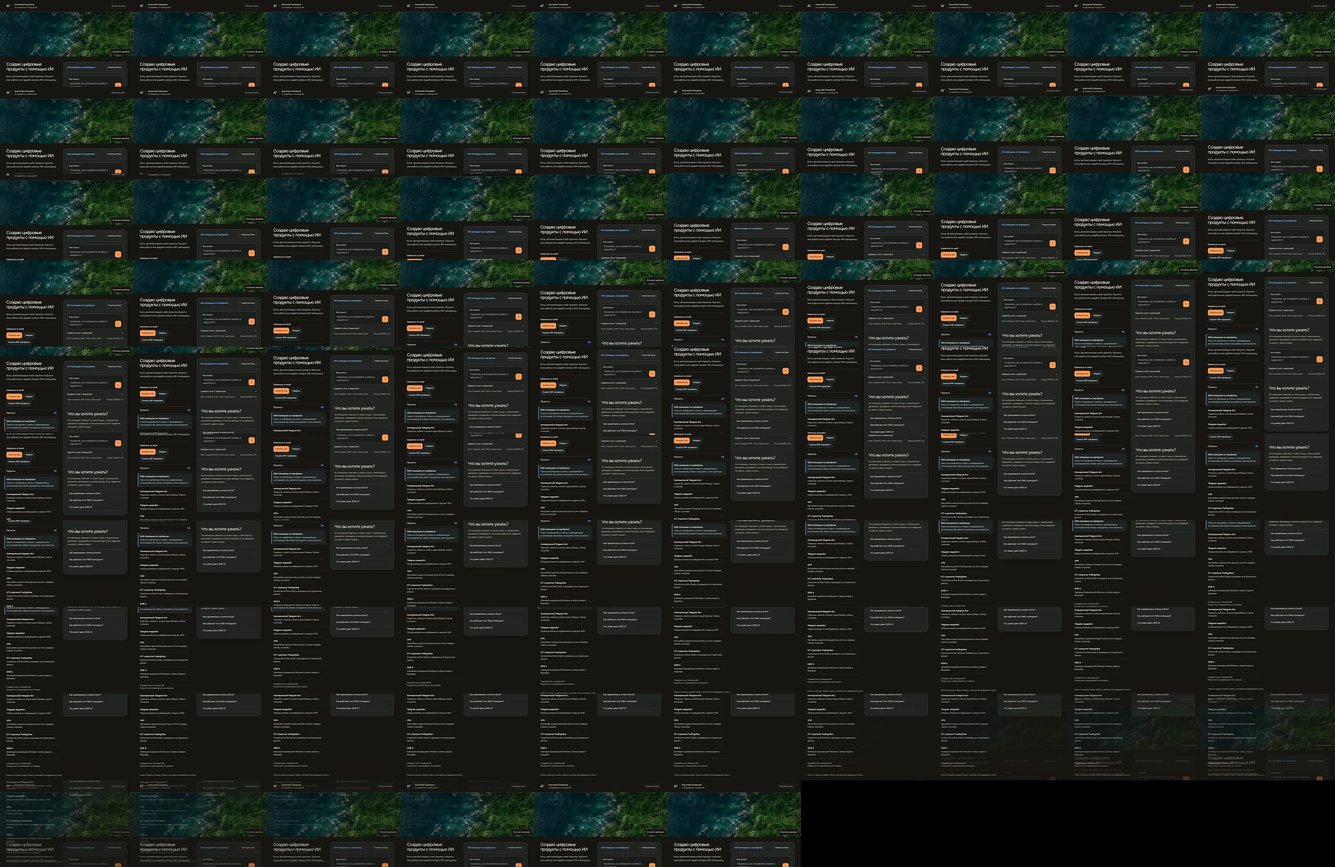
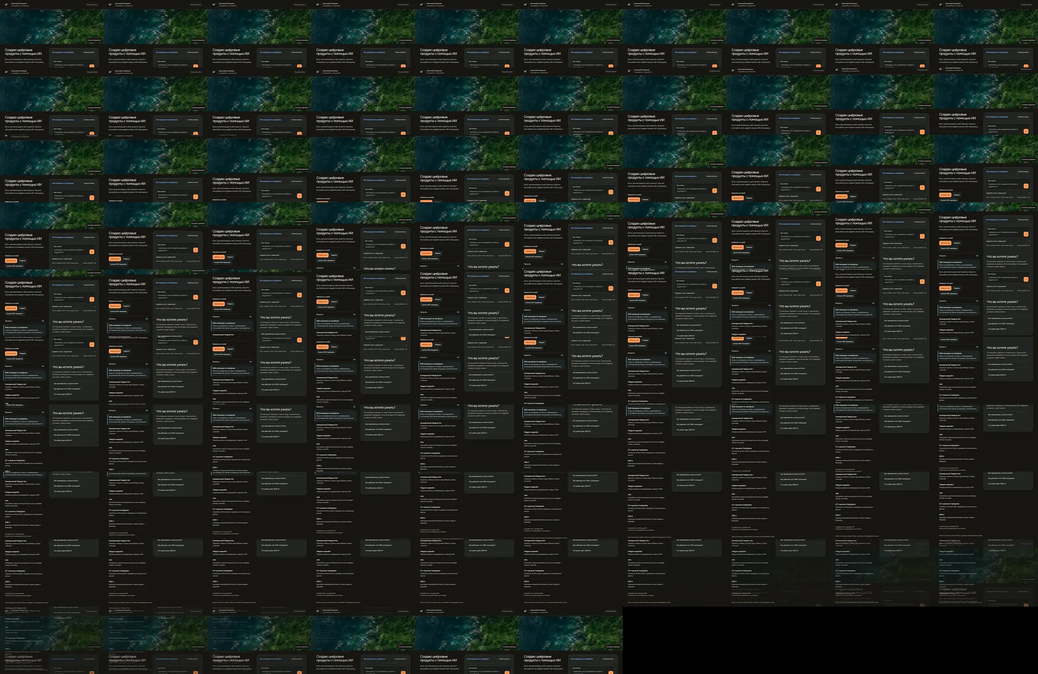
Reduce decoded memory for mobile portfolio previews

diff --git a/resume/index.html b/resume/index.html
@@ -298,7 +298,7 @@ html.motion-ready.scroll-story-active .scroll-flow.reveal .flow-arrow,html.motio
  <div class="project-screen">
   <img class="project-poster" src="assets/rag-motion.jpg" alt="" loading="lazy" decoding="async">
   <video class="project-motion" data-src="assets/rag-smooth.mp4" muted playsinline preload="none" tabindex="-1" disablepictureinpicture loop></video>
-  <div class="project-frames" data-src="assets/rag-smooth.webp"><i></i><i></i></div>
+  <div class="project-frames" data-src="assets/rag-smooth.webp?v=280"><i></i><i></i></div>
  </div>
 </div><span class="rag-preview-label">Посмотреть ИИ-помощника <span aria-hidden="true">↗</span><small>Открыть демо</small></span></a><p class="rank">Демо · 6 проектов</p><details class="project-benefit">
  <summary>Как вам это поможет?<span class="project-benefit-icon" aria-hidden="true"></span></summary>
@@ -314,7 +314,7 @@ html.motion-ready.scroll-story-active .scroll-flow.reveal .flow-arrow,html.motio
   <div class="project-screen">
    <img class="project-poster" src="assets/tradingview-poster.jpg" alt="" loading="lazy" decoding="async">
    <video class="project-motion" data-src="assets/tradingview-loop.mp4" muted playsinline preload="none" tabindex="-1" disablepictureinpicture loop></video>
-   <div class="project-frames" data-src="assets/tradingview-frames.webp"><i></i><i></i></div>
+   <div class="project-frames" data-src="assets/tradingview-frames.webp?v=280"><i></i><i></i></div>
   </div>
  </div>
 </a><p class="rank">Локальный проект · в процессе доработки</p><details class="project-benefit">
@@ -330,13 +330,13 @@ html.motion-ready.scroll-story-active .scroll-flow.reveal .flow-arrow,html.motio
  <div class="project-screen">
   <img class="project-poster" src="assets/side-a-motion.jpg" alt="" loading="lazy" decoding="async">
   <video class="project-motion" data-src="assets/side-a-smooth.mp4" muted playsinline preload="none" tabindex="-1" disablepictureinpicture loop></video>
-  <div class="project-frames" data-src="assets/side-a-smooth.webp"><i></i><i></i></div>
+  <div class="project-frames" data-src="assets/side-a-smooth.webp?v=280"><i></i><i></i></div>
  </div>
 </div><span>SIDE A ↗</span></a><a href="https://galihey.github.io/side-a-cover-motion/side-b/?v=6" target="_blank" rel="noopener noreferrer"><div class="project-stage" aria-hidden="true">
  <div class="project-screen">
   <img class="project-poster" src="assets/side-b-motion.jpg" alt="" loading="lazy" decoding="async">
   <video class="project-motion" data-src="assets/side-b-smooth.mp4" muted playsinline preload="none" tabindex="-1" disablepictureinpicture loop></video>
-  <div class="project-frames" data-src="assets/side-b-smooth.webp"><i></i><i></i></div>
+  <div class="project-frames" data-src="assets/side-b-smooth.webp?v=280"><i></i><i></i></div>
  </div>
 </div><span>SIDE B ↗</span></a></div></div></article></section>
 <section class="section" id="skills"><span class="section-index">03 / ИНСТРУМЕНТЫ</span><h2 class="section-title"><span class="fitted-line"><span>С чем работаю</span></span></h2><div class="resume-grid"><div><h3>Разработка</h3><p>Vibe coding, ИИ-агенты и ассистенты, Telegram-боты, Python, aiogram, SQL, SQLite, API, интеграция API и OpenAI API.</p></div><div><h3>Проверка</h3><p>Тестирование, отладка кода, декомпозиция задач, прототипирование, MVP и автоматизация процессов.</p></div><div><h3>Инструменты</h3><p>Codex, ChatGPT, Claude Code, Git, Linux, SSH, PowerShell, Cloudflare и домены.</p></div><div><h3>Медиа и код</h3><p>Pine Script, FFmpeg, Yandex SpeechKit и автоматизация видео. Технические инструменты применяю с помощью ИИ.</p></div></div></section>
